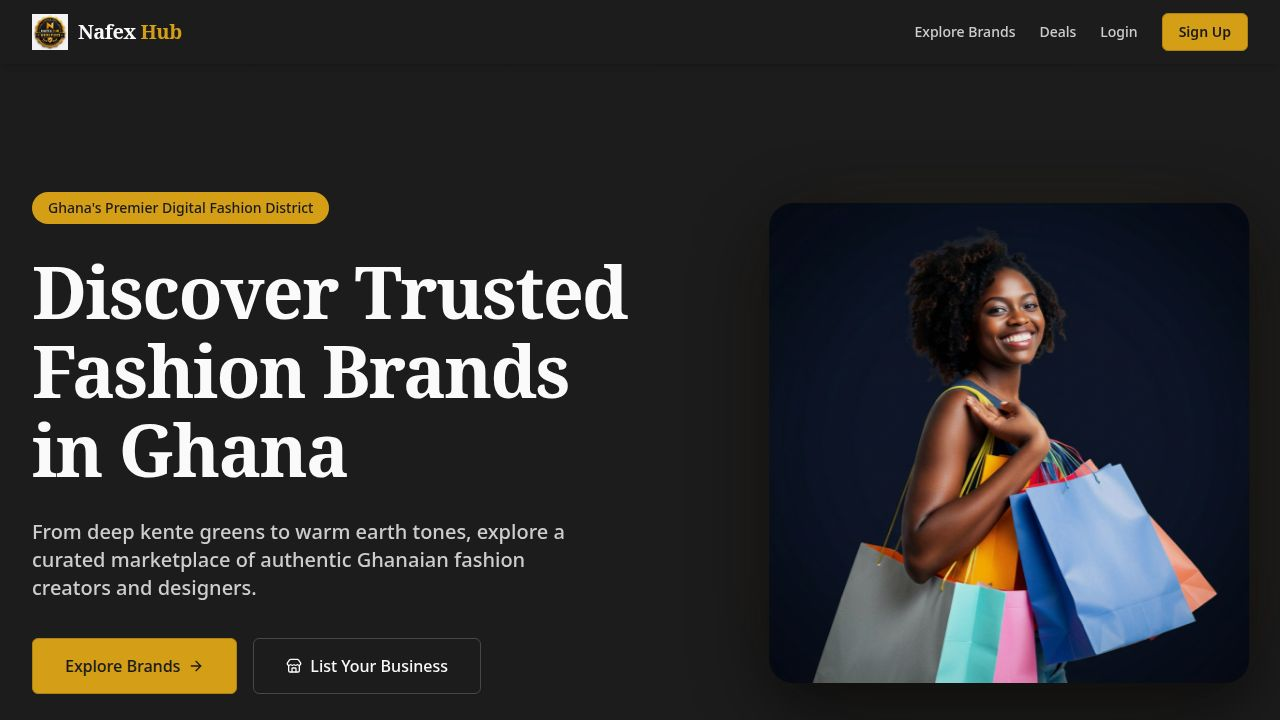
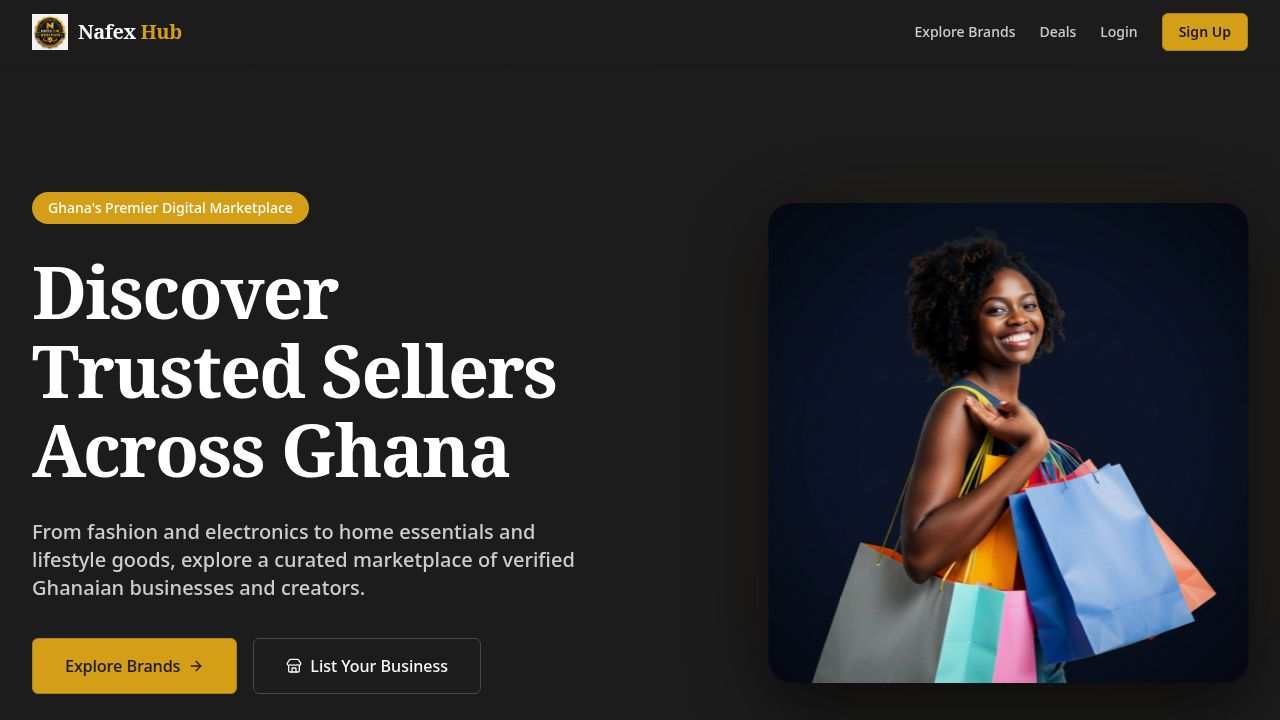
Update pages to ensure authentication checks occur after all hooks
Refactor authentication guards in dashboard, favorites, inbox, and orders pages to run after all hooks, ensuring consistent application behavior and preventing potential hook-related errors.

Replit-Commit-Author: Agent
Replit-Commit-Session-Id: 88e3f9b0-1f3b-406e-8438-51684bebf387
Replit-Commit-Checkpoint-Type: full_checkpoint
Replit-Commit-Event-Id: cad58ff4-4065-4bde-86e4-cb78822a4da1
Replit-Commit-Screenshot-Url: https://storage.googleapis.com/screenshot-production-us-central1/b5ef3663-af43-45f5-a9d9-8517217d8e50/88e3f9b0-1f3b-406e-8438-51684bebf387/umUAqtS
Replit-Helium-Checkpoint-Created: true

diff --git a/artifacts/nafex-hub/src/pages/inbox.tsx b/artifacts/nafex-hub/src/pages/inbox.tsx
@@ -2,6 +2,7 @@ import { useState, useEffect, useRef } from "react";
 import { useLocation } from "wouter";
 import {
   useGetConversations,
+  getGetConversationsQueryKey,
   useGetMessages,
   getGetMessagesQueryKey,
   useSendMessage,
@@ -11,27 +12,26 @@ import { Input } from "@/components/ui/input";
 import { Avatar, AvatarFallback } from "@/components/ui/avatar";
 import { Skeleton } from "@/components/ui/skeleton";
 import { Send, MessageCircle, ArrowLeft } from "lucide-react";
+import { useAuth } from "@/hooks/use-auth";
 
 export default function Inbox() {
   const [, setLocation] = useLocation();
-  const token = localStorage.getItem("nafex_token");
+  const { user } = useAuth();
 
-  if (!token) {
-    setLocation("/login");
-    return null;
-  }
-
+  // ── All hooks must be called before any early return ──
   const [selectedConvId, setSelectedConvId] = useState<number | null>(null);
   const [messageText, setMessageText] = useState("");
   const messagesEndRef = useRef<HTMLDivElement>(null);
 
-  const { data: conversations, isLoading: convsLoading, refetch: refetchConvs } = useGetConversations();
+  const { data: conversations, isLoading: convsLoading, refetch: refetchConvs } = useGetConversations({
+    query: { enabled: !!user, queryKey: getGetConversationsQueryKey() },
+  });
 
   const selectedConv = conversations?.find((c) => c.id === selectedConvId);
 
   const { data: messages, isLoading: msgsLoading, refetch: refetchMessages } = useGetMessages(
     selectedConvId ?? 0,
-    { query: { enabled: !!selectedConvId, refetchInterval: 5000, queryKey: getGetMessagesQueryKey(selectedConvId ?? 0) } }
+    { query: { enabled: !!selectedConvId && !!user, refetchInterval: !!selectedConvId ? 3000 : false, queryKey: getGetMessagesQueryKey(selectedConvId ?? 0) } }
   );
 
   const { mutate: sendMessage, isPending: sending } = useSendMessage({
@@ -55,18 +55,18 @@ export default function Inbox() {
     }
   }, [conversations, selectedConvId]);
 
+  // Auth guard — after all hooks
+  if (!user) {
+    setLocation("/login");
+    return null;
+  }
+
   const handleSend = () => {
     if (!messageText.trim() || !selectedConvId) return;
     sendMessage({ id: selectedConvId, data: { text: messageText.trim() } });
   };
 
-  const currentUserId = (() => {
-    try {
-      return parseInt(Buffer.from(token, "base64").toString().split(":")[0], 10);
-    } catch {
-      return -1;
-    }
-  })();
+  const currentUserId = user.id;
 
   return (
     <div className="container mx-auto px-4 py-6 max-w-5xl">

diff --git a/artifacts/nafex-hub/src/pages/favorites.tsx b/artifacts/nafex-hub/src/pages/favorites.tsx
@@ -1,26 +1,29 @@
 import { useLocation } from "wouter";
-import { useGetFavorites, useToggleFavorite } from "@workspace/api-client-react";
+import { useGetFavorites, useToggleFavorite, getGetFavoritesQueryKey } from "@workspace/api-client-react";
 import { Card, CardContent } from "@/components/ui/card";
 import { Button } from "@/components/ui/button";
 import { Skeleton } from "@/components/ui/skeleton";
 import { Tabs, TabsContent, TabsList, TabsTrigger } from "@/components/ui/tabs";
 import { Heart, Store, ShoppingBag, Trash2 } from "lucide-react";
 import { useToast } from "@/hooks/use-toast";
+import { useAuth } from "@/hooks/use-auth";
 
 export default function Favorites() {
   const [, setLocation] = useLocation();
   const { toast } = useToast();
+  const { user } = useAuth();
 
-  const token = localStorage.getItem("nafex_token");
-  if (!token) {
-    setLocation("/login");
-    return null;
-  }
-
-  const { data, isLoading, refetch } = useGetFavorites();
+  // ── All hooks must be called before any early return ──
+  const { data, isLoading, refetch } = useGetFavorites({ query: { enabled: !!user, queryKey: getGetFavoritesQueryKey() } });
   const { mutate: toggleFav } = useToggleFavorite({
     mutation: { onSuccess: () => { toast({ title: "Removed from favorites" }); refetch(); } },
   });
+
+  // Auth guard — after all hooks
+  if (!user) {
+    setLocation("/login");
+    return null;
+  }
 
   const businesses = (data as { businesses?: unknown[] } | undefined)?.businesses ?? [];
   const products = data?.products ?? [];

diff --git a/artifacts/nafex-hub/src/pages/dashboard.tsx b/artifacts/nafex-hub/src/pages/dashboard.tsx
@@ -1,5 +1,6 @@
 import { useState, useEffect } from "react";
 import { useLocation } from "wouter";
+import { useAuth } from "@/hooks/use-auth";
 import {
   useGetDashboardStats,
   useGetBusinessAnalytics,
@@ -98,13 +99,9 @@ const PAYMENT_BADGE: Record<string, { label: string; color: string }> = {
 export default function Dashboard() {
   const [, setLocation] = useLocation();
   const { toast } = useToast();
+  const { user } = useAuth();
 
-  const token = localStorage.getItem("nafex_token");
-  if (!token) {
-    setLocation("/login");
-    return null;
-  }
-
+  // ── All hooks must be called before any early return ──
   const { data: stats, isLoading: statsLoading } = useGetDashboardStats();
 
   const businessId = (stats as { businessId?: number } | undefined)?.businessId ?? 0;
@@ -392,6 +389,12 @@ export default function Dashboard() {
   ];
 
   const last14Days = analytics?.dailyStats?.slice(-14) ?? [];
+
+  // Auth guard — after all hooks
+  if (!user) {
+    setLocation("/login");
+    return null;
+  }
 
   return (
     <div className="container mx-auto px-4 py-8 max-w-6xl">

diff --git a/artifacts/nafex-hub/src/pages/orders.tsx b/artifacts/nafex-hub/src/pages/orders.tsx
@@ -1,6 +1,6 @@
 import { useState } from "react";
 import { useLocation } from "wouter";
-import { useGetUserOrders } from "@workspace/api-client-react";
+import { useGetUserOrders, getGetUserOrdersQueryKey } from "@workspace/api-client-react";
 import { useQueryClient } from "@tanstack/react-query";
 import { Card, CardContent } from "@/components/ui/card";
 import { Badge } from "@/components/ui/badge";
@@ -67,18 +67,20 @@ export default function Orders() {
   const [, setLocation] = useLocation();
   const { toast } = useToast();
   const queryClient = useQueryClient();
-  const token = localStorage.getItem("nafex_token");
 
+  // ── All hooks must be called before any early return ──
   const [payRef, setPayRef] = useState<Record<number, string>>({});
   const [payingId, setPayingId] = useState<number | null>(null);
   const [showPayForm, setShowPayForm] = useState<Record<number, boolean>>({});
 
+  const token = localStorage.getItem("nafex_token");
+  const { data: orders, isLoading } = useGetUserOrders({ query: { enabled: !!token, queryKey: getGetUserOrdersQueryKey() } });
+
+  // Auth guard — after all hooks
   if (!token) {
     setLocation("/login");
     return null;
   }
-
-  const { data: orders, isLoading } = useGetUserOrders();
 
   async function submitPayment(orderId: number) {
     const ref = payRef[orderId]?.trim();